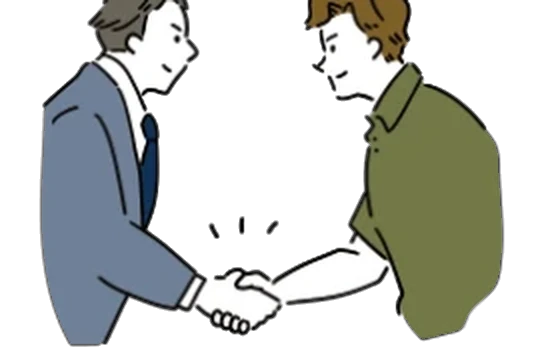
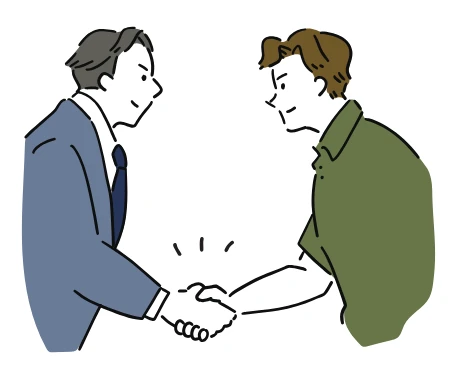
Use the pamphlet's own illustrations across the site
Replace the hand-drawn laptop figure in the hero with the owner's desk
illustration from the pamphlet and drop the two labels. Add a worries
section with the six characters, service icons, profile illustrations,
contract types and service area with the map, and sharper versions of
the appeal and town illustrations, all taken from the pamphlet's
vector data.

Claude-Session: https://claude.ai/code/session_01XbfAtSrgekR8QvSnguEoAi

Changed region(s): [[0.0299, 0.0, 0.9573, 0.9888], [0.7479, 0.7416, 0.9274, 0.9579], [0.359, 0.618, 0.5385, 0.6798]]

diff --git a/index.html b/index.html
@@ -96,10 +96,8 @@
       <div class="block pop" data-par=".06"></div>
       <img class="ill bgl pop" src="assets/worker-bg.webp" width="1180" height="1096" alt="" aria-hidden="true">
       <img class="ill pop d1" src="assets/worker.webp" width="1180" height="1096" alt="ヘルメット姿でタブレットを操作する現場監督のイラスト。うしろに観覧車のある街並み" fetchpriority="high">
-      <span class="tagl t1 rv d2">現場</span>
       <div class="me pop d2">
-        <img src="assets/me-pc.svg" width="360" height="384" alt="ノートパソコンに向かう代表のイラスト。画面からグラフが出ている">
-        <span class="tagl t2">データで支える</span>
+        <img src="assets/me-desk.webp" width="553" height="337" alt="書類の山に囲まれながらノートパソコンに向かう代表のイラスト">
       </div>
       <p class="tate rv d2" aria-label="データの見える化、業務の自動化で、みんなの仕事をすこしラクに。">
         <b>データの見える化</b><span class="c2"><b>業務の自動化</b>で、</span><span class="c3">みんなの仕事を</span><span class="c4">すこしラクに。</span>
@@ -156,6 +154,41 @@
   </div>
 </section>
 
+<!-- お悩み -->
+<section class="sec worries" id="worries">
+  <div class="wrap">
+    <p class="kicker rv">Worries</p>
+    <h2 class="h2 rv"><span class="mask"><span>こんなお悩み、ありませんか。</span></span></h2>
+    <ul class="worry-grid">
+      <li class="worry rv">
+        <p class="cloud">事業所が増えてきたので、横断的にデータを管理したい</p>
+        <img src="assets/w1.webp" width="257" height="309" alt="ヘルメットをかぶった建設業の方" loading="lazy">
+      </li>
+      <li class="worry rv d1">
+        <p class="cloud">社内の数値管理や傾向分析を行いたい</p>
+        <img src="assets/w2.webp" width="259" height="279" alt="マスクと眼鏡をつけた医療・介護の方" loading="lazy">
+      </li>
+      <li class="worry rv d2">
+        <p class="cloud">業務効率化・DX化を進めたいが、ノウハウが不足している</p>
+        <img src="assets/w3.webp" width="290" height="292" alt="麦わら帽子をかぶった農業の方" loading="lazy">
+      </li>
+      <li class="worry rv">
+        <p class="cloud">通知・アラートの自動化や、反復作業の削減をしたい</p>
+        <img src="assets/w4.webp" width="269" height="284" alt="白い作業着の方" loading="lazy">
+      </li>
+      <li class="worry rv d1">
+        <p class="cloud">AIの活用を検討しているが、導入手順が分からない</p>
+        <img src="assets/w5.webp" width="270" height="284" alt="鉢巻きと前掛けをつけた方" loading="lazy">
+      </li>
+      <li class="worry rv d2">
+        <p class="cloud">リアルタイムの収支・進捗管理をしたい</p>
+        <img src="assets/w6.webp" width="251" height="297" alt="帽子と眼鏡の作業着の方" loading="lazy">
+      </li>
+    </ul>
+    <p class="worry-end rv">ひとつでも当てはまりましたら、どうぞお気軽にご相談ください。<a class="tlink" href="#contact">相談する<span>→</span></a></p>
+  </div>
+</section>
+
 <!-- 選ばれる理由 -->
 <section class="gal" id="reasons">
   <div class="gal-pin">
@@ -170,25 +203,25 @@
         <article class="tile card">
           <div class="pt"><small>POINT</small><b>01</b></div>
           <h3>完全オーダーメイド設計</h3>
-          <div class="ill"><img src="assets/point-1.webp" width="940" height="320" alt="プランAとプランB、それぞれ別の組み合わせを提案される二人の担当者" loading="lazy"></div>
+          <div class="ill"><img src="assets/point-1.webp" width="492" height="403" alt="プランAとプランB、それぞれ別の組み合わせを提案される二人の担当者" loading="lazy"></div>
           <p>業種・業務ごとの<br>本質的課題に応える仕組み</p>
         </article>
         <article class="tile card">
           <div class="pt"><small>POINT</small><b>02</b></div>
           <h3>現場の声に寄り添う提案</h3>
-          <div class="ill"><img src="assets/point-2.webp" width="800" height="320" alt="マルとバツを出し合いながら話し合う現場スタッフと管理者" loading="lazy"></div>
+          <div class="ill"><img src="assets/point-2.webp" width="516" height="360" alt="マルとバツを出し合いながら話し合う現場スタッフと管理者" loading="lazy"></div>
           <p>実際の業務内容を確認しながら、<br>管理者・スタッフのストレスなく導入</p>
         </article>
         <article class="tile card">
           <div class="pt"><small>POINT</small><b>03</b></div>
           <h3><small>代表が直接対応</small>継続的改善</h3>
-          <div class="ill"><img src="assets/point-3.webp" width="540" height="356" alt="握手を交わす二人" loading="lazy"></div>
+          <div class="ill"><img src="assets/point-3.webp" width="468" height="376" alt="握手を交わす二人" loading="lazy"></div>
           <p>開発から運用まで伴走し、<br>関係性を重視</p>
         </article>
         <article class="tile card">
           <div class="pt"><small>POINT</small><b>04</b></div>
           <h3>持続可能な導入設計</h3>
-          <div class="ill"><img src="assets/point-4.webp" width="420" height="370" alt="一段ずつ高くなる棒グラフと、その頂上の旗" loading="lazy"></div>
+          <div class="ill"><img src="assets/point-4.webp" width="312" height="396" alt="一段ずつ高くなる棒グラフと、その頂上の旗" loading="lazy"></div>
           <p>予算感に合わせて<br>現実的な提案を実施</p>
         </article>
       </div>
@@ -202,7 +235,7 @@
   <span class="ghost" aria-hidden="true">SERVICE</span>
   <div class="wrap svc-grid">
     <figure class="svc-fig card pop">
-      <img src="assets/town.jpg" width="950" height="1100" alt="地域の街並みのイラスト" loading="lazy">
+      <img src="assets/town.jpg" width="1400" height="1441" alt="地域の街並みのイラスト" loading="lazy">
     </figure>
     <div>
       <div class="svc-head">
@@ -210,35 +243,35 @@
         <h2 class="h2 rv"><span class="mask"><span>サービス内容</span></span></h2>
       </div>
       <div class="svc rv">
-        <span class="n" aria-hidden="true">01</span>
+        <span class="n" aria-hidden="true">01<img src="assets/ic-1.webp" width="162" height="123" alt="" loading="lazy"></span>
         <div>
           <h3>事業全体の数値を見える化</h3>
           <p>整理されていないエクセルシートやデータ化されていない紙の書類を整理し、経営状況を可視化します。</p>
         </div>
       </div>
       <div class="svc rv">
-        <span class="n" aria-hidden="true">02</span>
+        <span class="n" aria-hidden="true">02<img src="assets/ic-2.webp" width="121" height="197" alt="" loading="lazy"></span>
         <div>
           <h3>定型業務の自動化</h3>
           <p>毎日・毎週・毎月・毎年行う繰り返し作業を自動化し、業務を効率化します。</p>
         </div>
       </div>
       <div class="svc rv">
-        <span class="n" aria-hidden="true">03</span>
+        <span class="n" aria-hidden="true">03<img src="assets/ic-3.webp" width="158" height="208" alt="" loading="lazy"></span>
         <div>
           <h3>人工知能(AI)を活用した業務改善支援</h3>
           <p>事業課題に応じたAIの様々な活用方法をご提案します。音声記録の自動化や帳票作成の効率化など、日々の業務に馴染む形で。</p>
         </div>
       </div>
       <div class="svc rv">
-        <span class="n" aria-hidden="true">04</span>
+        <span class="n" aria-hidden="true">04<img src="assets/ic-4.webp" width="198" height="170" alt="" loading="lazy"></span>
         <div>
           <h3>数値的根拠に基づいた提案</h3>
           <p>研究者としての分析経験を活かし、データに基づいた意思決定を支援します。</p>
         </div>
       </div>
       <div class="svc rv">
-        <span class="n" aria-hidden="true">05</span>
+        <span class="n" aria-hidden="true">05<svg viewBox="0 0 64 52" fill="none" stroke="#B6CABA" stroke-width="3" stroke-linecap="round" stroke-linejoin="round"><rect x="3" y="3" width="58" height="46" rx="4"/><path d="M3 15h58M11 9h.5M18 9h.5M12 26h20M12 34h14M40 25h12v15H40z"/></svg></span>
         <div>
           <h3>ホームページの制作</h3>
           <p>ホームページの制作も承っております。事業やお店の魅力が伝わる構成をご提案し、スマートフォンでの見やすさにも配慮して制作いたします。</p>
@@ -336,18 +369,22 @@
           <div class="rv">
             <dt>研究</dt>
             <dd>産業医科大学大学院で7年間、労働者の健康と行動に関する研究に従事し、医学博士を取得しました。介護現場におけるエンゲージメントやストレス要因の定量分析、国際論文の執筆、学会発表など、研究成果の社会実装を意識した活動を続けています。現在も同大学の外部研究員として、現場と学術をつなぐ立場で研究を継続しています。</dd>
+            <dd class="pic"><img src="assets/me-desk.webp" width="553" height="337" alt="書類の山に囲まれてノートパソコンに向かう様子" loading="lazy"></dd>
           </div>
           <div class="rv">
             <dt>実務</dt>
             <dd>県内最大規模の介護事業所で研究員とプロジェクトリーダーを兼任し、現場起点のDX推進を担当。介護保険請求、記録、営業、採用、人事、財務といった実務経験を踏まえ、バックエンドからフロントエンドまでの開発、Google Cloudを活用したデータ基盤構築、業務自動化、ダッシュボード化、AI導入までの仕組みづくりを行ってきました。単なる効率化ではなく、コスト最適化や負担感の軽減につながる改善を実装しています。</dd>
+            <dd class="pic"><img src="assets/me-present.webp" width="659" height="471" alt="円グラフを前に、担当者へ説明する様子" loading="lazy"></dd>
           </div>
           <div class="rv">
             <dt>強み</dt>
             <dd>医療・介護・障害福祉の領域での現場経験と共通言語を持ち、現場特有の制約や文化を理解した支援が可能です。水産業など他業種への展開も進めており、机上の分析にとどまらず、最後まで使いきれる形になるまで伴走します。</dd>
+            <dd class="pic"><img src="assets/me-typing.webp" width="671" height="518" alt="営業・人事・財務の吹き出しに囲まれてノートパソコンで作業する様子" loading="lazy"></dd>
           </div>
           <div class="rv">
             <dt>現在</dt>
             <dd>現在は「KONOHITO」の代表として、“デジタルの地産地消”を掲げ、地域の中小企業の皆さまとともに仕組みづくりに取り組んでいます。「あの人にしか分からない」「担当者が休むと業務が止まる」。特定の方の努力と経験に支えられて日々の業務が成り立っている会社は、少なくありません。数字をもとに判断できる土台を整え、担当者が替わっても続けられる形にしていくこと。そうして生まれた時間を、お客様や従業員の皆さまと向き合うことにお使いいただきたいと考えています。</dd>
+            <dd class="pic"><img src="assets/me-phone.webp" width="649" height="888" alt="電話をしながらノートパソコンに向かう様子" loading="lazy"></dd>
           </div>
         </dl>
       </div>
@@ -405,7 +442,7 @@
         <h3>開発費は<em>要相談</em>。<br>ご予算に合わせて設計します。</h3>
         <p>大手の企業様よりも安価でのご提供を心がけております。はじめにご予算を伺い、その範囲で実現できる内容をご提案いたします。</p>
         <ul class="checks">
-          <li><b>ご相談は何度でも無料</b>ご契約の有無にかかわらず、お話を伺います。</li>
+          <li><b>ご相談は何度でも無料</b>ご契約の有無にかかわらず、お話を伺います。オンラインでの面談も可能です。</li>
           <li><b>業務ひとつからご依頼いただけます</b>すべてを一度に入れ替える必要はございません。集計や書類作成など、お困りの業務ひとつからお引き受けします。現在お使いのエクセルやスプレッドシートも、そのまま活かせます。</li>
           <li><b>毎月の運用費も抑えます</b>ご利用分だけ費用が発生する構成とし、ご利用のない時間には費用がかからないようにいたします。</li>
           <li><b>費用は見える形に</b>費用の内訳をご確認いただけます。上限の通知と定期的な見直しにより、想定外の増加を防ぎます。</li>
@@ -422,6 +459,28 @@
           <li><b>閲覧できる方を最小限に</b>必要な方だけが必要な情報を閲覧できるよう権限を分け、操作の記録を残します。</li>
         </ul>
         <p class="fine">医療・介護情報を扱う場合は、厚生労働省・経済産業省・総務省のガイドライン(3省2ガイドライン)に沿って設計いたします。</p>
+      </div>
+    </div>
+
+    <div class="terms">
+      <div class="ocard card rv">
+        <span class="tag">CONTRACT TYPES</span>
+        <h3>契約形態</h3>
+        <ol class="pills">
+          <li><b>01</b>月額伴走型</li>
+          <li><b>02</b>単発開発委託</li>
+          <li><b>03</b>スポット相談型<small>(無料)</small></li>
+        </ol>
+        <p>ご要望やご予算に応じて、柔軟に設計いたします。</p>
+      </div>
+      <div class="ocard card rv d1 area">
+        <div>
+          <span class="tag">AREA</span>
+          <h3>対応エリア</h3>
+          <p><strong>特に熊本県荒尾市、熊本県・福岡県の事業者の皆さま</strong><br>地域に根ざした支援を重視しております。対応エリア外の場合は、オンラインで対応いたします。</p>
+          <p>業種・業界を問わず対応可能です。</p>
+        </div>
+        <img src="assets/map.webp" width="588" height="507" alt="九州の地図。熊本県荒尾市の位置に印があり、代表の似顔絵が添えられている" loading="lazy">
       </div>
     </div>
 

diff --git a/assets/site.css b/assets/site.css
@@ -165,12 +165,9 @@ body::before{content:"";position:fixed;inset:0 0 auto;height:env(safe-area-inset
 .hero-note::before{content:"";width:10px;height:10px;border:1.5px solid var(--green)}
 .hero-fig{position:relative;align-self:end;min-height:clamp(380px,45vw,620px)}
 .hero-fig .block{position:absolute;right:0;top:4%;width:50%;aspect-ratio:1/1.3;background:var(--tint)}
-.hero-fig .ill{position:absolute;left:-12%;bottom:0;width:86%;max-width:none}
-.hero-fig .me{position:absolute;right:-2%;bottom:0;width:43%;z-index:1}
+.hero-fig .ill{position:absolute;left:-14%;bottom:0;width:80%;max-width:none}
+.hero-fig .me{position:absolute;right:-4%;bottom:0;width:58%;z-index:1}
 .hero-fig .me img{width:100%}
-.tagl{position:absolute;z-index:3;font-family:var(--maru);font-weight:700;font-size:clamp(11px,1vw,13px);letter-spacing:.16em;line-height:1;padding:7px 10px;background:#fff;border:1.5px solid var(--ink);box-shadow:3px 3px 0 var(--sage-l);white-space:nowrap}
-.tagl.t1{left:2%;bottom:47%}
-.tagl.t2{left:-16%;top:-4%;background:var(--green);color:#fff}
 .tate{
   position:absolute;top:0;right:3%;z-index:2;
   writing-mode:vertical-rl;font-family:var(--maru);font-weight:500;font-size:clamp(15px,1.6vw,23px);letter-spacing:.2em;line-height:1.9;
@@ -281,7 +278,8 @@ body::before{content:"";position:fixed;inset:0 0 auto;height:env(safe-area-inset
 .svc:last-child{border-bottom:1.5px solid var(--hair)}
 .svc::before{content:"";position:absolute;left:0;top:-1.5px;height:1.5px;width:100%;background:var(--green);transform:scaleX(0);transform-origin:left;transition:transform .9s var(--ease)}
 .svc:hover::before{transform:none}
-.svc .n{font-family:var(--dots);font-weight:700;font-size:clamp(26px,3vw,40px);line-height:1.3;color:var(--sage);transition:color .4s}
+.svc .n{font-family:var(--dots);font-weight:700;font-size:clamp(26px,3vw,40px);line-height:1.3;color:var(--sage);transition:color .4s;display:flex;flex-direction:column;gap:12px}
+.svc .n img,.svc .n svg{width:clamp(34px,3.6vw,48px);height:auto}
 .svc:hover .n{color:var(--green)}
 .svc h3{font-size:clamp(18px,1.8vw,24px);letter-spacing:.08em;line-height:1.6;margin-bottom:8px}
 .svc p{font-size:14px;color:#3B423E;max-width:34em}
@@ -389,12 +387,17 @@ body::before{content:"";position:fixed;inset:0 0 auto;height:env(safe-area-inset
 .pf-text .pf-role{font-size:14px;font-weight:700;letter-spacing:.14em;color:var(--green);margin-top:16px;padding-bottom:22px;border-bottom:1.5px solid var(--ink);margin-bottom:24px}
 .pf-text .pf-role span{display:block;margin-top:6px;font-weight:500;color:#3B423E;letter-spacing:.1em}
 .pf-text p{font-size:14.5px;color:#3B423E;line-height:2.2}
-.pf-story>div{display:grid;grid-template-columns:5.5em minmax(0,1fr);gap:8px 20px;padding-block:20px;border-bottom:1.5px solid var(--hair)}
+.pf-story>div{display:grid;grid-template-columns:5.5em minmax(0,1fr) clamp(110px,13vw,170px);align-items:center;gap:8px 24px;padding-block:20px;border-bottom:1.5px solid var(--hair)}
 .pf-story>div:first-child{padding-top:0}
 .pf-story dt{font-family:var(--maru);font-weight:700;font-size:15px;letter-spacing:.2em;color:var(--green);display:flex;align-items:center;gap:10px;align-self:start;line-height:2.1}
 .pf-story dt::before{content:"";width:9px;height:9px;background:var(--sage);flex:none}
 .pf-story dd{font-size:14.5px;color:#3B423E;line-height:2.1}
-@media(max-width:560px){.pf-story>div{grid-template-columns:minmax(0,1fr)}}
+.pf-story .pic img{width:100%;max-height:170px;object-fit:contain}
+@media(max-width:700px){
+  .pf-story>div{grid-template-columns:minmax(0,1fr)}
+  .pf-story .pic{order:-1}
+  .pf-story .pic img{width:auto;height:120px;max-width:100%}
+}
 .cv{margin-top:clamp(52px,6vw,88px);display:grid;grid-template-columns:minmax(0,.6fr) minmax(0,1fr);gap:clamp(36px,6vw,104px)}
 .cv h3{font-family:var(--maru);font-weight:700;font-size:15px;letter-spacing:.14em;padding-bottom:12px;border-bottom:1.5px solid var(--ink);display:flex;align-items:baseline;gap:12px;flex-wrap:wrap}
 .cv h3 span{font-family:var(--dots);font-weight:700;font-size:10px;letter-spacing:.18em;color:var(--green)}
@@ -521,3 +524,37 @@ footer{background:var(--deep);color:#C4D2C9;border-top:1.5px solid rgba(255,255,
   .brand b{font-size:10px;letter-spacing:.06em}
   .brand img{width:38px}
 }
+
+/* ---------- お悩み ---------- */
+.worries{border-top:1.5px solid var(--hair);padding-bottom:clamp(64px,8vw,112px)}
+.worry-grid{list-style:none;display:grid;grid-template-columns:repeat(3,minmax(0,1fr));gap:clamp(28px,4vw,56px) clamp(20px,3vw,44px);margin-top:clamp(36px,5vw,64px)}
+.worry{display:flex;flex-direction:column;align-items:center;gap:18px}
+.cloud{position:relative;width:100%;flex:1;display:grid;place-items:center;text-align:center;background:#fff;border:1.5px solid var(--ink);border-radius:28px;box-shadow:6px 6px 0 var(--ink);padding:20px 22px;font-family:var(--maru);font-weight:500;font-size:clamp(14px,1.25vw,16.5px);line-height:1.85;letter-spacing:.08em;word-break:auto-phrase;text-wrap:balance}
+.cloud::before,.cloud::after{content:"";position:absolute;background:#fff;border:1.5px solid var(--ink);border-radius:50%;box-shadow:3px 3px 0 var(--ink)}
+.cloud::before{width:16px;height:16px;left:calc(50% - 34px);bottom:-13px}
+.cloud::after{width:9px;height:9px;left:calc(50% - 14px);bottom:-24px}
+.worry img{width:clamp(96px,11vw,140px);margin-top:14px}
+.worry:nth-child(even) .cloud::before{left:auto;right:calc(50% - 34px)}
+.worry:nth-child(even) .cloud::after{left:auto;right:calc(50% - 14px)}
+.worry-end{margin-top:clamp(40px,5vw,64px);text-align:center;font-family:var(--maru);font-weight:500;font-size:clamp(15px,1.4vw,18px);letter-spacing:.08em;display:flex;gap:10px 28px;justify-content:center;align-items:center;flex-wrap:wrap}
+@media(max-width:860px){.worry-grid{grid-template-columns:repeat(2,minmax(0,1fr))}}
+@media(max-width:460px){
+  .worry-grid{grid-template-columns:minmax(0,1fr);gap:26px}
+  .worry{flex-direction:row-reverse;align-items:center;gap:20px}
+  .worry img{width:84px;margin-top:0;flex:none}
+  .cloud::before{left:auto!important;right:auto!important;left:-12px!important;bottom:auto;top:calc(50% - 4px)}
+  .cloud::after{left:auto!important;right:auto!important;left:-22px!important;bottom:auto;top:calc(50% + 12px)}
+}
+
+/* ---------- 契約形態・対応エリア ---------- */
+.terms{display:grid;grid-template-columns:minmax(0,.85fr) minmax(0,1.15fr);gap:clamp(24px,3vw,44px);margin-top:clamp(24px,3vw,44px)}
+.pills{list-style:none;display:grid;gap:14px;margin:6px 0 18px}
+.pills li{display:flex;align-items:center;gap:14px;min-height:54px;padding:0 22px;border:1.5px solid var(--ink);border-radius:999px;background:#fff;box-shadow:0 6px 0 var(--sage-l);font-family:var(--maru);font-weight:700;font-size:clamp(16px,1.6vw,19px);letter-spacing:.12em}
+.pills li b{font-family:var(--dots);font-weight:700;font-size:13px;color:var(--green);letter-spacing:.06em}
+.pills li small{font-size:.74em;letter-spacing:.06em}
+.area{display:grid;grid-template-columns:minmax(0,1fr) clamp(150px,19vw,250px);gap:clamp(16px,2vw,28px);align-items:center}
+.area p+p{margin-top:10px}
+.area strong{font-family:var(--maru);font-weight:700;color:var(--ink)}
+.area img{width:100%}
+@media(max-width:900px){.terms{grid-template-columns:minmax(0,1fr)}}
+@media(max-width:560px){.area{grid-template-columns:minmax(0,1fr)}.area img{max-width:220px;margin-inline:auto}}
